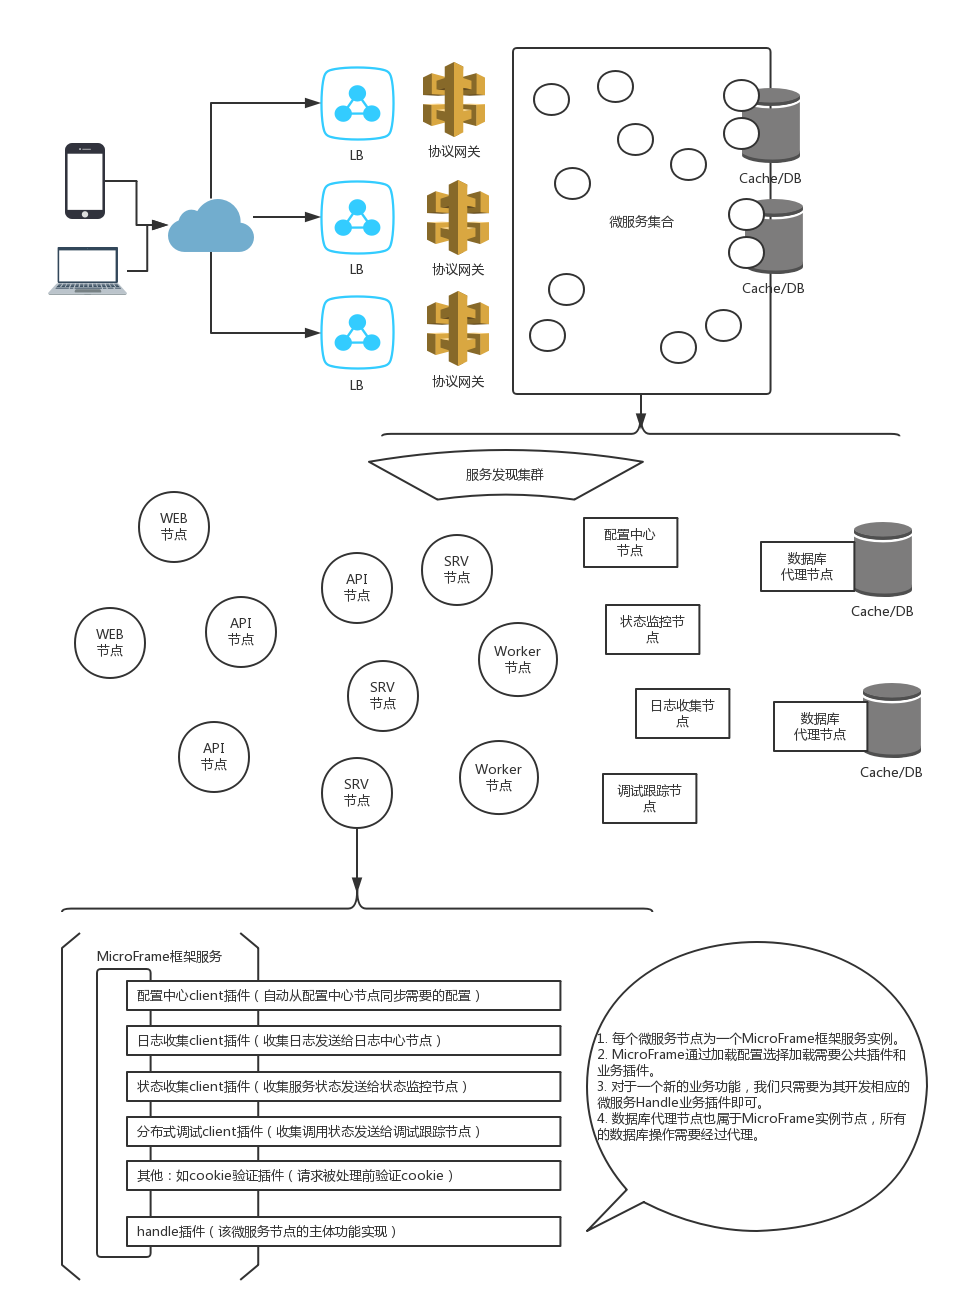
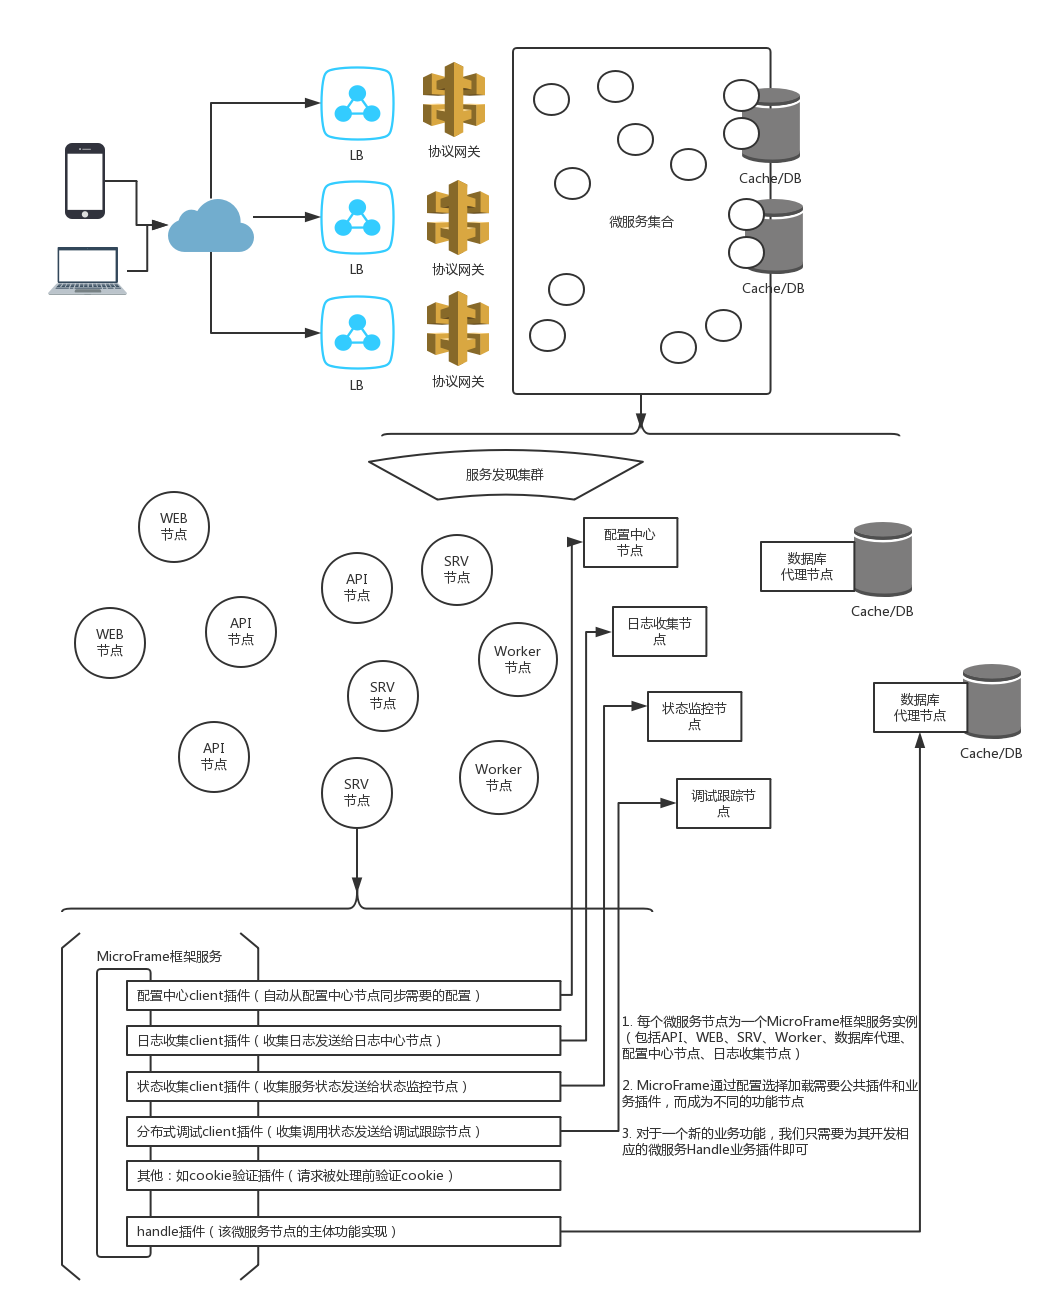
add microframe readme.md

diff --git a/readme.md b/readme.md
@@ -1,0 +1,42 @@
+# MicroFrame
+
+MicroFrame是基于[go-micro](https://github.com/micro/go-micro)结合go的plugin（需要go1.8或以上）开发的一个微服务框架。
+
+[go-micro](https://github.com/micro/go-micro)本身已经做了非常好的抽象和插件化。MicroFrame没有直接采用go-micro，而是在它的基础上重新开发有下面一些原因。
+1. 对纯粹的业务开发屏蔽掉掉所有服务本身的代码（当时也有考虑过使用生成代码）
+2. go-micro使用命令行参数设置启动状态，MicroFrame则依据配置文件
+3. 统一微服务节点结构
+4. 统计提供日志收集，状态监控，PV统计，性能统计，请求跟踪调试的服务。
+5. 所有节点可以通过配置，直接使用以上这些公共服务
+
+## 微服务架构设计
+![MicroFrame](http://github.com/neverlee/microframe/raw/master/docs/MicroFrame.png)
+
+### 节点设计
+1. 每个微服务节点为一个MicroFrame框架服务实例（包括API、WEB、SRV、Worker、数据库代理、配置中心节点、日志收集节点）
+2. MicroFrame通过配置选择加载需要公共插件和业务插件，而成为不同的功能节点
+3. 对于一个新的业务功能，我们只需要为其开发相应的微服务Handle业务插件即可
+
+### MicroFrame框架运行流程
+1. 框架读取配置文件
+2. 框架根据配置文件加载插件（当内部插件与外部插件同名时，会加载外部插件）
+3. 调用已经加载插件的NewPlugin函数新建插件结构体（插件的NewPlugin调用无序）
+4. 对插件按插件本身阶段类型以及在配置文件中的位置进行排序
+5. 顺序依次调用插件的Preinit函数（wrap操作需要在这一步增加）
+6. 框架初始化自己的Service
+7. 顺序依次调用插件的Init函数（这一步注册业务Handle）
+8. 顺序依次调用插件的Start函数
+9. 逆序依次调用插件的Stop函数
+10. 逆序依次调用插件的Uninit函数
+
+## 微服务技术选型示例
+* 服务发现 consul（优先考虑）
+* 服务保护 hystrix
+* 服务通信 protobuf（优先）, jsonrpc（兼容）
+* 框架 [microframe（基于go-micro）](https://github.com/neverlee/microframe)
+* 部署方案 kubernetes，docker swarm
+* 监控报警 influxdb, telegraf, hrafana
+* 日志收集 fluentd（ELK）
+* 配置文件格式 yaml（优先），toml
+* 日志格式 [xclog](https://github.com/neverlee/xclog/go)
+
